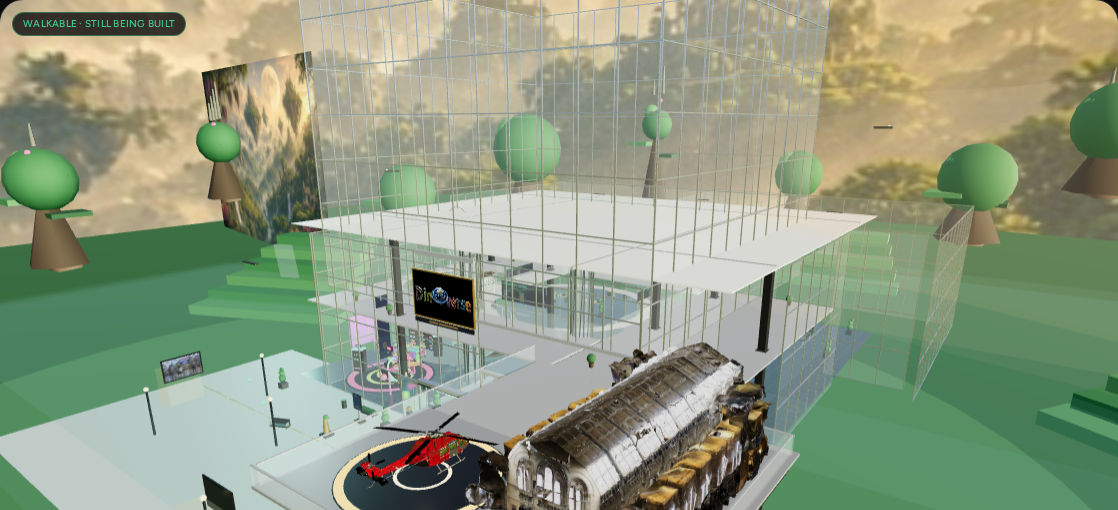
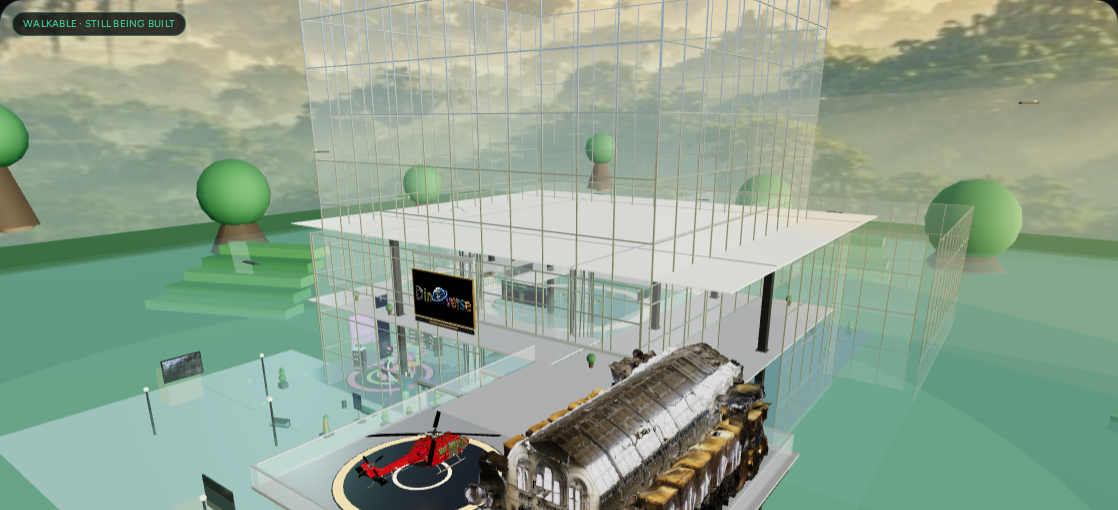
fix(floor): kill paradise side billboards; immerse via equirect dome
Critic MAJOR: vertical ParadiseHorizonPlates made the still read as a
sideboard beside HQ. Remove those planes. Rebake the official still into
a horizon-band equirect VisionSkyDome, strengthen misty teal fog/mist
bands, and keep warm sun + quality tiers. Add first-person look-around
evidence under docs/paradise-floor/.

diff --git a/src/game/floor/cityscape.tsx b/src/game/floor/cityscape.tsx
@@ -3,7 +3,6 @@ import { useFrame } from "@react-three/fiber";
 import type { Group } from "three";
 import { DoubleSide } from "three";
 import { Box } from "./kit";
-import { usePhoto } from "../textures";
 import { useQuality } from "../quality";
 
 /** Emerald / mist palette — Earth-Like Worlds paradise plate. */
@@ -29,12 +28,12 @@ type Mass = {
 
 function ringMasses(count: number): Mass[] {
   const out: Mass[] = [];
-  // Fewer, farther masses — photo sky + horizon plates carry the paradise read.
-  const n = Math.max(8, Math.floor(count * 0.45));
+  // Sparse far silhouettes only — immersion comes from the sky dome + fog, not props.
+  const n = Math.max(6, Math.floor(count * 0.35));
   for (let i = 0; i < n; i++) {
     const a = (i / n) * Math.PI * 2 + 0.11;
-    const r = 58 + (i % 5) * 4.2;
-    const h = 8 + ((i * 13) % 16);
+    const r = 62 + (i % 5) * 4.8;
+    const h = 7 + ((i * 13) % 14);
     const w = 6.5 + (i % 4) * 1.2;
     out.push({
       x: Math.cos(a) * r,
@@ -42,8 +41,8 @@ function ringMasses(count: number): Mass[] {
       h,
       w,
       d: w * (0.7 + (i % 3) * 0.2),
-      floatY: i % 3 === 0 ? 6 + (i % 4) * 2.2 : i % 2 === 0 ? 2.5 : 0,
-      spires: i % 3 === 0 ? 3 + (i % 2) : i % 4 === 0 ? 1 : 0,
+      floatY: i % 3 === 0 ? 5 + (i % 4) * 1.8 : 0,
+      spires: i % 4 === 0 ? 2 : 0,
       terrace: i % 2 === 0,
     });
   }
@@ -95,32 +94,22 @@ function FloatingMass({ m, shadows }: { m: Mass; shadows: boolean }) {
         <sphereGeometry args={[crownR * 0.55, 8, 6]} />
         <meshStandardMaterial color={GREEN_LIT} roughness={0.82} metalness={0.02} />
       </mesh>
-      <mesh position={[crownR * 0.4, m.h * 0.22, -crownR * 0.25]}>
-        <sphereGeometry args={[crownR * 0.48, 8, 6]} />
-        <meshStandardMaterial color={GREEN_DEEP} roughness={0.9} metalness={0.02} />
-      </mesh>
       {m.terrace ? (
-        <>
-          <mesh position={[-m.w * 0.4, m.h * 0.02, m.d * 0.15]}>
-            <boxGeometry args={[m.w * 0.55, 0.7, m.d * 0.7]} />
-            <meshStandardMaterial color={TERRACE} roughness={0.88} metalness={0.02} />
-          </mesh>
-          <mesh position={[m.w * 0.25, -m.h * 0.08, -m.d * 0.2]}>
-            <boxGeometry args={[m.w * 0.5, 0.55, m.d * 0.6]} />
-            <meshStandardMaterial color={GREEN_DEEP} roughness={0.9} metalness={0.02} />
-          </mesh>
-        </>
+        <mesh position={[-m.w * 0.35, m.h * 0.02, m.d * 0.15]}>
+          <boxGeometry args={[m.w * 0.5, 0.6, m.d * 0.6]} />
+          <meshStandardMaterial color={TERRACE} roughness={0.88} metalness={0.02} />
+        </mesh>
       ) : null}
       {Array.from({ length: m.spires }, (_, i) => (
-        <mesh key={i} position={[(i - (m.spires - 1) / 2) * 0.9, m.h * 0.42 + 1.4 + i * 0.55, 0]}>
-          <cylinderGeometry args={[0.12, 0.28, 2.6 + i * 0.9, 6]} />
+        <mesh key={i} position={[(i - (m.spires - 1) / 2) * 0.9, m.h * 0.42 + 1.2 + i * 0.5, 0]}>
+          <cylinderGeometry args={[0.12, 0.28, 2.2 + i * 0.8, 6]} />
           <meshStandardMaterial color={SPIRE} roughness={0.55} metalness={0.25} />
         </mesh>
       ))}
       {m.spires > 0 ? (
-        <mesh position={[crownR * 0.35, m.h * 0.38, crownR * 0.3]}>
-          <sphereGeometry args={[0.4, 6, 4]} />
-          <meshStandardMaterial color={FLOWER} emissive={FLOWER} emissiveIntensity={0.3} roughness={0.7} />
+        <mesh position={[crownR * 0.3, m.h * 0.36, crownR * 0.25]}>
+          <sphereGeometry args={[0.35, 6, 4]} />
+          <meshStandardMaterial color={FLOWER} emissive={FLOWER} emissiveIntensity={0.28} roughness={0.7} />
         </mesh>
       ) : null}
     </group>
@@ -162,9 +151,9 @@ function DriftCraft({ seed }: { seed: number }) {
     const t = clock.elapsedTime * (0.06 + seed * 0.015) + seed * 4;
     const g = ref.current;
     if (!g) return;
-    g.position.x = Math.cos(t) * (38 + seed * 3);
-    g.position.y = 16 + seed * 2.2 + Math.sin(t * 1.2) * 1.1;
-    g.position.z = Math.sin(t * 0.85) * (32 + seed * 2);
+    g.position.x = Math.cos(t) * (42 + seed * 3);
+    g.position.y = 18 + seed * 2.2 + Math.sin(t * 1.2) * 1.1;
+    g.position.z = Math.sin(t * 0.85) * (36 + seed * 2);
     g.rotation.y = -t + Math.PI / 2;
   });
   return (
@@ -182,47 +171,8 @@ function DriftCraft({ seed }: { seed: number }) {
 }
 
 /**
- * Official still as mid-distance surround — sells valleys / floating islands
- * when looking out from HQ without rebuilding the city.
- */
-function ParadiseHorizonPlates() {
-  const map = usePhoto("/worlds/forum/paradise-plate-ref.jpg");
-  const panels = useMemo(
-    () =>
-      [0, 1, 2, 3, 4, 5].map((i) => {
-        const a = (i / 6) * Math.PI * 2 + 0.2;
-        const r = 78;
-        return {
-          key: i,
-          position: [Math.cos(a) * r, 14, Math.sin(a) * r] as [number, number, number],
-          rotY: -a + Math.PI,
-        };
-      }),
-    [],
-  );
-  if (!map) return null;
-  return (
-    <group>
-      {panels.map((p) => (
-        <mesh key={p.key} position={p.position} rotation={[0, p.rotY, 0]} frustumCulled={false}>
-          <planeGeometry args={[52, 30]} />
-          <meshBasicMaterial
-            map={map}
-            toneMapped={false}
-            fog
-            transparent
-            opacity={0.92}
-            depthWrite={false}
-          />
-        </mesh>
-      ))}
-    </group>
-  );
-}
-
-/**
- * Horizon / surround plate — verdant terraces, floating forest masses,
- * misty teal valleys + official still plates. Walkable HQ / plaza untouched.
+ * Horizon surround — verdant ground, distant silhouettes, teal mist bands.
+ * Sky immersion is the VisionSkyDome (not vertical still billboards).
  */
 export function Cityscape() {
   const { settings, level } = useQuality();
@@ -240,25 +190,24 @@ export function Cityscape() {
         <meshStandardMaterial color="#3a6e48" roughness={0.9} metalness={0.02} />
       </mesh>
 
-      {level === "low" ? null : <ParadiseHorizonPlates />}
-
       {masses.map((m) => (
         <FloatingMass key={`${m.x.toFixed(1)}-${m.z.toFixed(1)}`} m={m} shadows={settings.shadows} />
       ))}
 
-      <TerraceRidge position={[-36, 0, 8]} rotY={0.4} steps={level === "low" ? 4 : 6} />
-      <TerraceRidge position={[40, 0, -6]} rotY={-0.55} steps={level === "low" ? 4 : 7} />
-      <TerraceRidge position={[8, 0, -42]} rotY={0.1} steps={level === "low" ? 3 : 5} />
+      <TerraceRidge position={[-42, 0, 10]} rotY={0.4} steps={level === "low" ? 3 : 5} />
+      <TerraceRidge position={[44, 0, -8]} rotY={-0.55} steps={level === "low" ? 3 : 5} />
+      <TerraceRidge position={[6, 0, -48]} rotY={0.1} steps={level === "low" ? 3 : 4} />
 
       {misty ? (
         <>
-          <MistBand position={[0, 1.2, -8]} size={[120, 80]} opacity={0.14} />
-          <MistBand position={[-18, 2.4, 12]} size={[70, 50]} opacity={0.11} />
-          <MistBand position={[22, 1.8, -20]} size={[90, 60]} opacity={0.12} />
-          <MistBand position={[0, 3.6, 40]} size={[100, 70]} opacity={0.09} />
+          <MistBand position={[0, 0.6, 0]} size={[160, 160]} opacity={0.28} />
+          <MistBand position={[0, 1.8, 0]} size={[150, 150]} opacity={0.22} />
+          <MistBand position={[0, 3.2, -8]} size={[130, 110]} opacity={0.18} />
+          <MistBand position={[-20, 4.0, 14]} size={[90, 70]} opacity={0.14} />
+          <MistBand position={[22, 3.6, -20]} size={[90, 70]} opacity={0.14} />
         </>
       ) : (
-        <MistBand position={[0, 1.6, 0]} size={[100, 100]} opacity={0.08} />
+        <MistBand position={[0, 1.2, 0]} size={[140, 140]} opacity={0.2} />
       )}
 
       {Array.from({ length: settings.crafts }, (_, n) => (

diff --git a/src/game/floor/kit.tsx b/src/game/floor/kit.tsx
@@ -359,14 +359,14 @@ export function BoardScreen({
 
 export function Lights(): ReactNode {
   const { settings, level } = useQuality();
-  /** Misty teal — mid band so valleys read without wiping the sky dome. */
-  const fogNear = level === "low" ? 34 : level === "mid" ? 48 : 55;
-  const fogFar = Math.min(settings.far - 2, level === "low" ? 110 : settings.fogFar + 20);
+  /** Stronger misty teal — depth from fog/dome ring, never a side plate. */
+  const fogNear = level === "low" ? 14 : level === "mid" ? 18 : 22;
+  const fogFar = Math.min(settings.far - 12, level === "low" ? 68 : level === "mid" ? 92 : 112);
   return (
     <>
       <HqEnvironment />
-      <color attach="background" args={["#c5b48a"]} />
-      <fog attach="fog" args={["#7eb8b0", fogNear, fogFar]} />
+      <color attach="background" args={["#6eaea6"]} />
+      <fog attach="fog" args={["#5fa39c", fogNear, fogFar]} />
       <hemisphereLight args={["#ffe7b8", "#3d6a52", level === "low" ? 0.95 : 1.05]} />
       <ambientLight intensity={settings.extraLights ? 0.72 : 0.88} color="#fff0d4" />
       <directionalLight
@@ -384,8 +384,7 @@ export function Lights(): ReactNode {
         shadow-camera-top={32}
         shadow-camera-bottom={-32}
       />
-      {/* Cool fill from valley mist — keeps teal readable in shadow */}
-      <directionalLight position={[-32, 14, -18]} intensity={0.38} color="#8ec4b8" />
+      <directionalLight position={[-32, 14, -18]} intensity={0.42} color="#8ec4b8" />
       <ParadiseGodRays enabled={level !== "low"} />
       {settings.contactShadows ? (
         <AccumulativeShadows

diff --git a/src/game/floor/env.tsx b/src/game/floor/env.tsx
@@ -63,9 +63,10 @@ export function ParadiseGodRays({ enabled }: { enabled: boolean }) {
 }
 
 /**
- * Golden-hour plate + soft moon + park HDRI for glass.
- * Mid/high: equirect sky dome baked from the official still
- * (`scripts/make-paradise-sky.mjs`) — moon/islands come from the art.
+ * Golden-hour plate + park HDRI for glass.
+ * Mid/high: true equirect VisionSkyDome baked from the official still
+ * (`scripts/make-paradise-sky.mjs`) — looking around immerses via dome + fog,
+ * not a vertical side billboard.
  * Low: cheap drei Sky + moon mesh (no texture fetch).
  */
 export function HqEnvironment() {
@@ -79,7 +80,8 @@ export function HqEnvironment() {
             <Sky sunPosition={SUN_POS} turbidity={6} rayleigh={0.8} mieCoefficient={0.005} mieDirectionalG={0.85} />
           }
         >
-          <VisionSkyDome src="/worlds/forum/paradise-sky.jpg" radius={170} />
+          {/* Radius stays inside quality `far` so first-person never clips the dome. */}
+          <VisionSkyDome src="/worlds/forum/paradise-sky.jpg?v=immersion3" radius={148} />
         </Suspense>
       ) : (
         <>

diff --git a/src/game/Explorer3D.tsx b/src/game/Explorer3D.tsx
@@ -1625,7 +1625,7 @@ export function Explorer3D({
                         key={bootKey}
                       shadows={settings.shadows}
                       style={{ width: "100%", height: "100%", display: "block" }}
-                      camera={{ fov: FOV_DEFAULT, position: [0, EYE, 24], near: 0.08, far: settings.far }}
+                      camera={{ fov: FOV_DEFAULT, position: [0, EYE, 24], near: 0.08, far: Math.max(settings.far, 175) }}
                       frameloop="always"
                       dpr={settings.dpr}
                       performance={{ min: 0.85 }}
@@ -1635,7 +1635,7 @@ export function Explorer3D({
                         stencil: false,
                         alpha: false,
                         toneMapping: THREE.ACESFilmicToneMapping,
-                        toneMappingExposure: 1.12,
+                        toneMappingExposure: 1.02,
                       }}
                     >
                         <FloorGlGuard onFail={failFloorBoot} />

diff --git a/docs/paradise-floor-environment.md b/docs/paradise-floor-environment.md
@@ -1,12 +1,12 @@
 # Paradise Floor environment (Earth-Like Worlds)
 
-Art-direction pass for **The Floor** exterior plate — sky, horizon surround, mist, and warm lighting. Walkable HQ / atrium / soft-fail / shards / characters are unchanged.
+Art-direction pass for **The Floor** exterior — immersive sky dome, mist, warm lighting. Walkable HQ / atrium / soft-fail / shards / characters unchanged.
 
 ## Visual target
 
 - Category: temperate / paradise terrestrial
-- Palette: emerald green, warm gold sunlight (`#ffdfad`), misty teal (`#7eb8b0`), cream moon (`#f3ead4`)
-- Mood: lush valleys, terraced / floating forest masses, golden-hour god-rays, giant pale moon
+- Palette: emerald green, warm gold sunlight (`#ffdfad`), misty teal (`#6eaea6`), cream moon
+- Mood: lush valleys in the **sky dome**, golden-hour god-rays, giant pale moon — **not** a vertical painting beside HQ
 
 Official still: `public/worlds/forum/paradise-plate-ref.jpg`
 
@@ -14,41 +14,30 @@ Official still: `public/worlds/forum/paradise-plate-ref.jpg`
 
 | Surface | File | Notes |
 | --- | --- | --- |
-| Sky + HDRI | `src/game/floor/env.tsx` | Mid/high: `VisionSkyDome` on baked `/worlds/forum/paradise-sky.jpg` (from official still); low: drei `<Sky>` + `PaleMoon`. Environment preset `park` (mid/high) |
-| Horizon plates | `src/game/floor/cityscape.tsx` | Mid/high: ring of official-still billboards; fewer/farther procedural floating masses + terraces |
-| God-rays | `ParadiseGodRays` in `env.tsx` | Soft planes; **skipped on `low`** quality |
-| Lights + fog | `src/game/floor/kit.tsx` `Lights` | Teal fog `#7eb8b0`; warm sun + cool mist fill; fog near/far still derived from `quality.ts` |
-| District tint | `src/game/districts3d.ts` `forum` | fog / ambient / ground / sky aligned (Floor still owns its own `Lights`) |
+| Sky | `src/game/floor/env.tsx` | Mid/high: `VisionSkyDome` on equirect bake; low: drei `<Sky>` + `PaleMoon`. **No vertical still billboards.** |
+| Bake | `scripts/make-paradise-sky.mjs` | Projects the still into a forward frustum; fills 360° with zenith / teal horizon ring / soft ridge |
+| Surround | `src/game/floor/cityscape.tsx` | Verdant ground, sparse far silhouettes, mist bands only |
+| Fog / lights | `src/game/floor/kit.tsx` `Lights` | Stronger misty teal fog; warm sun; quality-gated god-rays |
 
-Quality tiers (`src/game/quality.ts`) are respected: fewer masses via `towers` / `crafts`, no HDRI / still plates / god-rays on low, shadows only on high.
+## Critic fix (MAJOR)
 
-## Tuning knobs
+Vertical `ParadiseHorizonPlates` (six planes at r≈78 with the still) made the painting read as a side billboard. Removed. Immersion is the equirect dome + fog.
 
-Live scene (fastest):
-
-1. **Sun aim** — `SUN_POS` in `env.tsx` (shared by Sky, key light, shadows).
-2. **Sky warmth** — low-tier `<Sky turbidity / rayleigh / mie*>` in `HqEnvironment`.
-3. **Moon** — low-tier only (`PaleMoon`); mid/high moon comes from the still.
-4. **Fog** — fog color / near / far math in `Lights` (`kit.tsx`).
-5. **Plate density** — `settings.towers` / `settings.crafts`; mass layout in `ringMasses()`.
-6. **God-rays** — opacity / plane count in `ParadiseGodRays`; gated with `level !== "low"`.
-7. **Horizon billboards** — radius / count in `ParadiseHorizonPlates`.
-
-Offline sky bake:
+## Tuning
 
 ```bash
-# Replace paradise-plate-ref.jpg first, then:
+# Replace paradise-plate-ref.jpg, then:
 node scripts/make-paradise-sky.mjs
 ```
 
-Samples the official still into an equirect wrap at `public/worlds/forum/paradise-sky.jpg`. Mid/high Floor loads that JPEG as the sky dome.
+Live knobs: `SUN_POS`, fog near/far in `Lights`, dome radius in `HqEnvironment` (keep under quality `far`).
 
-## Out of scope (this PR)
+## Out of scope
 
-- Full floating-island city rebuild / new districts
+- Full floating-island / hanging-gardens prop rebuild
 - Rapier / museum (#6 HOLD)
-- Engine rewrite
+- Merge / deploy
 
-## Smoke
+## Evidence
 
-Orbit The Floor on `/worlds?district=forum` (high quality) and confirm golden sky, pale moon, teal mist, paradise still on the horizon — HQ glass box and plaza still readable. Then guest-walk `/explore` to confirm atrium / enter soft-fail / shards still boot.
+First-person look-around shots: `docs/paradise-floor/`

diff --git a/docs/paradise-floor/README.md b/docs/paradise-floor/README.md
@@ -1,14 +1,24 @@
 # Paradise Floor — verification evidence
 
-Screenshots for Ops / Critic review of the Earth-Like Worlds plate pass (PR exterior only).
+Screenshots for Ops / Critic review of the Earth-Like Worlds plate pass.
+
+## Critic MAJOR fix
+
+Vertical `ParadiseHorizonPlates` (still on side planes) **removed**. Immersion is the equirect `VisionSkyDome` + misty teal fog.
+
+## Shots
 
 | File | What it shows |
 | --- | --- |
-| [floor-exterior-before.png](./floor-exterior-before.png) | Orbit preview before plate pass (grey tower ring) |
-| [floor-exterior-after.png](./floor-exterior-after.png) | Orbit preview after paradise sky + horizon |
-| [floor-canvas-after.png](./floor-canvas-after.png) | Canvas crop of the after exterior |
-| [paradise-sky.jpg](./paradise-sky.jpg) | Baked equirect sky (also at `public/worlds/forum/paradise-sky.jpg`) |
+| [floor-exterior-before.png](./floor-exterior-before.png) | Orbit before plate pass |
+| [floor-exterior-after.png](./floor-exterior-after.png) | Orbit after dome immersion |
+| [floor-canvas-after.png](./floor-canvas-after.png) | Canvas crop after |
+| [fp-look-forward.png](./fp-look-forward.png) | First-person looking out (plaza) |
+| [fp-look-left.png](./fp-look-left.png) | First-person looking left — dome/sky, not a side plate |
+| [fp-look-right.png](./fp-look-right.png) | First-person looking right |
+| [fp-look-back.png](./fp-look-back.png) | First-person looking back |
+| [fp-look-up-valley.png](./fp-look-up-valley.png) | First-person angled toward valley/sky |
+| [paradise-sky.jpg](./paradise-sky.jpg) | Baked equirect (also `public/worlds/forum/paradise-sky.jpg`) |
 
-Official still used for the bake: `public/worlds/forum/paradise-plate-ref.jpg`
-
-Tuning notes: [../paradise-floor-environment.md](../paradise-floor-environment.md)
+Official still: `public/worlds/forum/paradise-plate-ref.jpg`  
+Tuning: [../paradise-floor-environment.md](../paradise-floor-environment.md)
